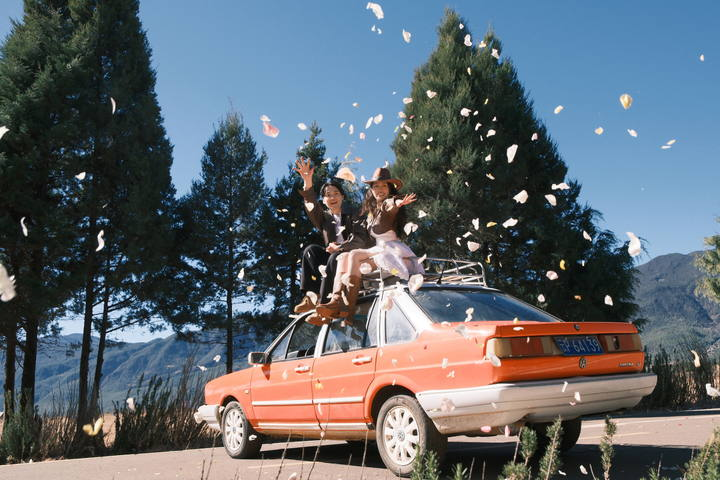
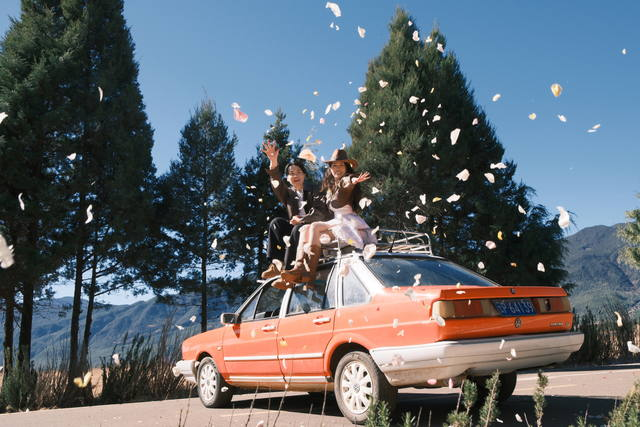
Responsive hero sizes and smaller gallery previews

diff --git a/index.html b/index.html
@@ -14,8 +14,8 @@
 
   <link rel="icon" href="favicon.svg" type="image/svg+xml">
   <link rel="manifest" href="manifest.webmanifest">
-  <link rel="stylesheet" href="styles.css?v=20260852">
-  <script src="config.js?v=20260852"></script>
+  <link rel="stylesheet" href="styles.css?v=20260853">
+  <script src="config.js?v=20260853"></script>
 </head>
 <body>
   <div class="grain" aria-hidden="true"></div>
@@ -72,7 +72,14 @@
     <!-- Hero -->
     <section class="hero" id="hero">
       <div class="hero__media">
-        <img src="assets/photos/hero.jpg?v=own20260852" alt="胡珊珊与吕志方在雪山前合影" fetchpriority="high">
+        <img
+          src="assets/photos/hero-1200.jpg?v=own20260853"
+          srcset="assets/photos/hero-1200.jpg?v=own20260853 1200w, assets/photos/hero-1600.jpg?v=own20260853 1600w"
+          sizes="100vw"
+          alt="胡珊珊与吕志方在雪山前合影"
+          fetchpriority="high"
+          decoding="async"
+        >
         <div class="hero__shade"></div>
         <div class="hero__halo" aria-hidden="true"></div>
       </div>
@@ -218,71 +225,71 @@
 
       <div class="photo-grid" id="photoGrid">
         <figure class="photo-card photo-card--large" data-reveal data-delay="0">
-          <button class="photo-card__button" type="button" data-full="assets/photos/full/love-01.jpg?v=own20260852" aria-label="放大查看照片一">
-            <img src="assets/photos/preview/love-01.jpg?v=own20260852" alt="胡珊珊与吕志方在雪山屋顶合影" loading="lazy" decoding="async">
+          <button class="photo-card__button" type="button" data-full="assets/photos/full/love-01.jpg?v=own20260853" aria-label="放大查看照片一">
+            <img src="assets/photos/preview/love-01.jpg?v=own20260853" alt="胡珊珊与吕志方在雪山屋顶合影" loading="lazy" decoding="async">
             <span class="photo-card__overlay"><span>01 · 雪顶相逢</span></span>
           </button>
         </figure>
 
         <figure class="photo-card photo-card--small" data-reveal data-delay="1">
-          <button class="photo-card__button" type="button" data-full="assets/photos/full/love-02.jpg?v=own20260852" aria-label="放大查看照片二">
-            <img src="assets/photos/preview/love-02.jpg?v=own20260852" alt="胡珊珊与吕志方在雪山前同行" loading="lazy" decoding="async">
+          <button class="photo-card__button" type="button" data-full="assets/photos/full/love-02.jpg?v=own20260853" aria-label="放大查看照片二">
+            <img src="assets/photos/preview/love-02.jpg?v=own20260853" alt="胡珊珊与吕志方在雪山前同行" loading="lazy" decoding="async">
             <span class="photo-card__overlay"><span>02 · 山间同行</span></span>
           </button>
         </figure>
 
         <figure class="photo-card photo-card--small" data-reveal data-delay="2">
-          <button class="photo-card__button" type="button" data-full="assets/photos/full/love-03.jpg?v=own20260852" aria-label="放大查看照片三">
-            <img src="assets/photos/preview/love-03.jpg?v=own20260852" alt="胡珊珊与吕志方在雪山前相拥" loading="lazy" decoding="async">
+          <button class="photo-card__button" type="button" data-full="assets/photos/full/love-03.jpg?v=own20260853" aria-label="放大查看照片三">
+            <img src="assets/photos/preview/love-03.jpg?v=own20260853" alt="胡珊珊与吕志方在雪山前相拥" loading="lazy" decoding="async">
             <span class="photo-card__overlay"><span>03 · 风雪相拥</span></span>
           </button>
         </figure>
 
         <figure class="photo-card photo-card--large" data-reveal data-delay="3">
-          <button class="photo-card__button" type="button" data-full="assets/photos/full/love-04.jpg?v=own20260852" aria-label="放大查看照片四">
-            <img src="assets/photos/preview/love-04.jpg?v=own20260852" alt="胡珊珊与吕志方在汽车合影" loading="lazy" decoding="async">
+          <button class="photo-card__button" type="button" data-full="assets/photos/full/love-04.jpg?v=own20260853" aria-label="放大查看照片四">
+            <img src="assets/photos/preview/love-04.jpg?v=own20260853" alt="胡珊珊与吕志方在汽车合影" loading="lazy" decoding="async">
             <span class="photo-card__overlay"><span>04 · 欢乐启程</span></span>
           </button>
         </figure>
 
         <figure class="photo-card photo-card--large" data-reveal data-delay="4">
-          <button class="photo-card__button" type="button" data-full="assets/photos/full/love-05.jpg?v=own20260852" aria-label="放大查看照片五">
-            <img src="assets/photos/preview/love-05.jpg?v=own20260852" alt="胡珊珊与吕志方在汽车旁撒彩带" loading="lazy" decoding="async">
+          <button class="photo-card__button" type="button" data-full="assets/photos/full/love-05.jpg?v=own20260853" aria-label="放大查看照片五">
+            <img src="assets/photos/preview/love-05.jpg?v=own20260853" alt="胡珊珊与吕志方在汽车旁撒彩带" loading="lazy" decoding="async">
             <span class="photo-card__overlay"><span>05 · 幸福飞扬</span></span>
           </button>
         </figure>
 
         <figure class="photo-card photo-card--small" data-reveal data-delay="5">
-          <button class="photo-card__button" type="button" data-full="assets/photos/full/love-06.jpg?v=own20260852" aria-label="放大查看照片六">
-            <img src="assets/photos/preview/love-06.jpg?v=own20260852" alt="胡珊珊在雪山与汽车前" loading="lazy" decoding="async">
+          <button class="photo-card__button" type="button" data-full="assets/photos/full/love-06.jpg?v=own20260853" aria-label="放大查看照片六">
+            <img src="assets/photos/preview/love-06.jpg?v=own20260853" alt="胡珊珊在雪山与汽车前" loading="lazy" decoding="async">
             <span class="photo-card__overlay"><span>06 · 山野与风</span></span>
           </button>
         </figure>
 
         <figure class="photo-card photo-card--small" data-reveal data-delay="6">
-          <button class="photo-card__button" type="button" data-full="assets/photos/full/love-07.jpg?v=own20260852" aria-label="放大查看照片七">
-            <img src="assets/photos/preview/love-07.jpg?v=own20260852" alt="胡珊珊与吕志方在汽车前合影" loading="lazy" decoding="async">
+          <button class="photo-card__button" type="button" data-full="assets/photos/full/love-07.jpg?v=own20260853" aria-label="放大查看照片七">
+            <img src="assets/photos/preview/love-07.jpg?v=own20260853" alt="胡珊珊与吕志方在汽车前合影" loading="lazy" decoding="async">
             <span class="photo-card__overlay"><span>07 · 并肩同行</span></span>
           </button>
         </figure>
 
         <figure class="photo-card photo-card--large" data-reveal data-delay="7">
-          <button class="photo-card__button" type="button" data-full="assets/photos/full/love-08.jpg?v=own20260852" aria-label="放大查看照片八">
-            <img src="assets/photos/preview/love-08.jpg?v=own20260852" alt="胡珊珊与吕志方在雪山下合影" loading="lazy" decoding="async">
+          <button class="photo-card__button" type="button" data-full="assets/photos/full/love-08.jpg?v=own20260853" aria-label="放大查看照片八">
+            <img src="assets/photos/preview/love-08.jpg?v=own20260853" alt="胡珊珊与吕志方在雪山下合影" loading="lazy" decoding="async">
             <span class="photo-card__overlay"><span>08 · 青春正好</span></span>
           </button>
         </figure>
 
         <figure class="photo-card photo-card--small" data-reveal data-delay="8">
-          <button class="photo-card__button" type="button" data-full="assets/photos/full/love-09.jpg?v=own20260852" aria-label="放大查看照片九">
-            <img src="assets/photos/preview/love-09.jpg?v=own20260852" alt="胡珊珊与吕志方在山顶相望" loading="lazy" decoding="async">
+          <button class="photo-card__button" type="button" data-full="assets/photos/full/love-09.jpg?v=own20260853" aria-label="放大查看照片九">
+            <img src="assets/photos/preview/love-09.jpg?v=own20260853" alt="胡珊珊与吕志方在山顶相望" loading="lazy" decoding="async">
             <span class="photo-card__overlay"><span>09 · 山风与你</span></span>
           </button>
         </figure>
 
         <figure class="photo-card photo-card--large" data-reveal data-delay="9">
-          <button class="photo-card__button" type="button" data-full="assets/photos/full/love-10.jpg?v=own20260852" aria-label="放大查看照片十">
-            <img src="assets/photos/preview/love-10.jpg?v=own20260852" alt="胡珊珊与吕志方在汽车旁" loading="lazy" decoding="async">
+          <button class="photo-card__button" type="button" data-full="assets/photos/full/love-10.jpg?v=own20260853" aria-label="放大查看照片十">
+            <img src="assets/photos/preview/love-10.jpg?v=own20260853" alt="胡珊珊与吕志方在汽车旁" loading="lazy" decoding="async">
             <span class="photo-card__overlay"><span>10 · 少年模样</span></span>
           </button>
         </figure>
@@ -425,9 +432,10 @@
     <span id="toastText">已复制</span>
   </div>
 
-  <script src="script.js?v=20260852"></script>
+  <script src="script.js?v=20260853"></script>
 </body>
 </html>
+
 
 
 
